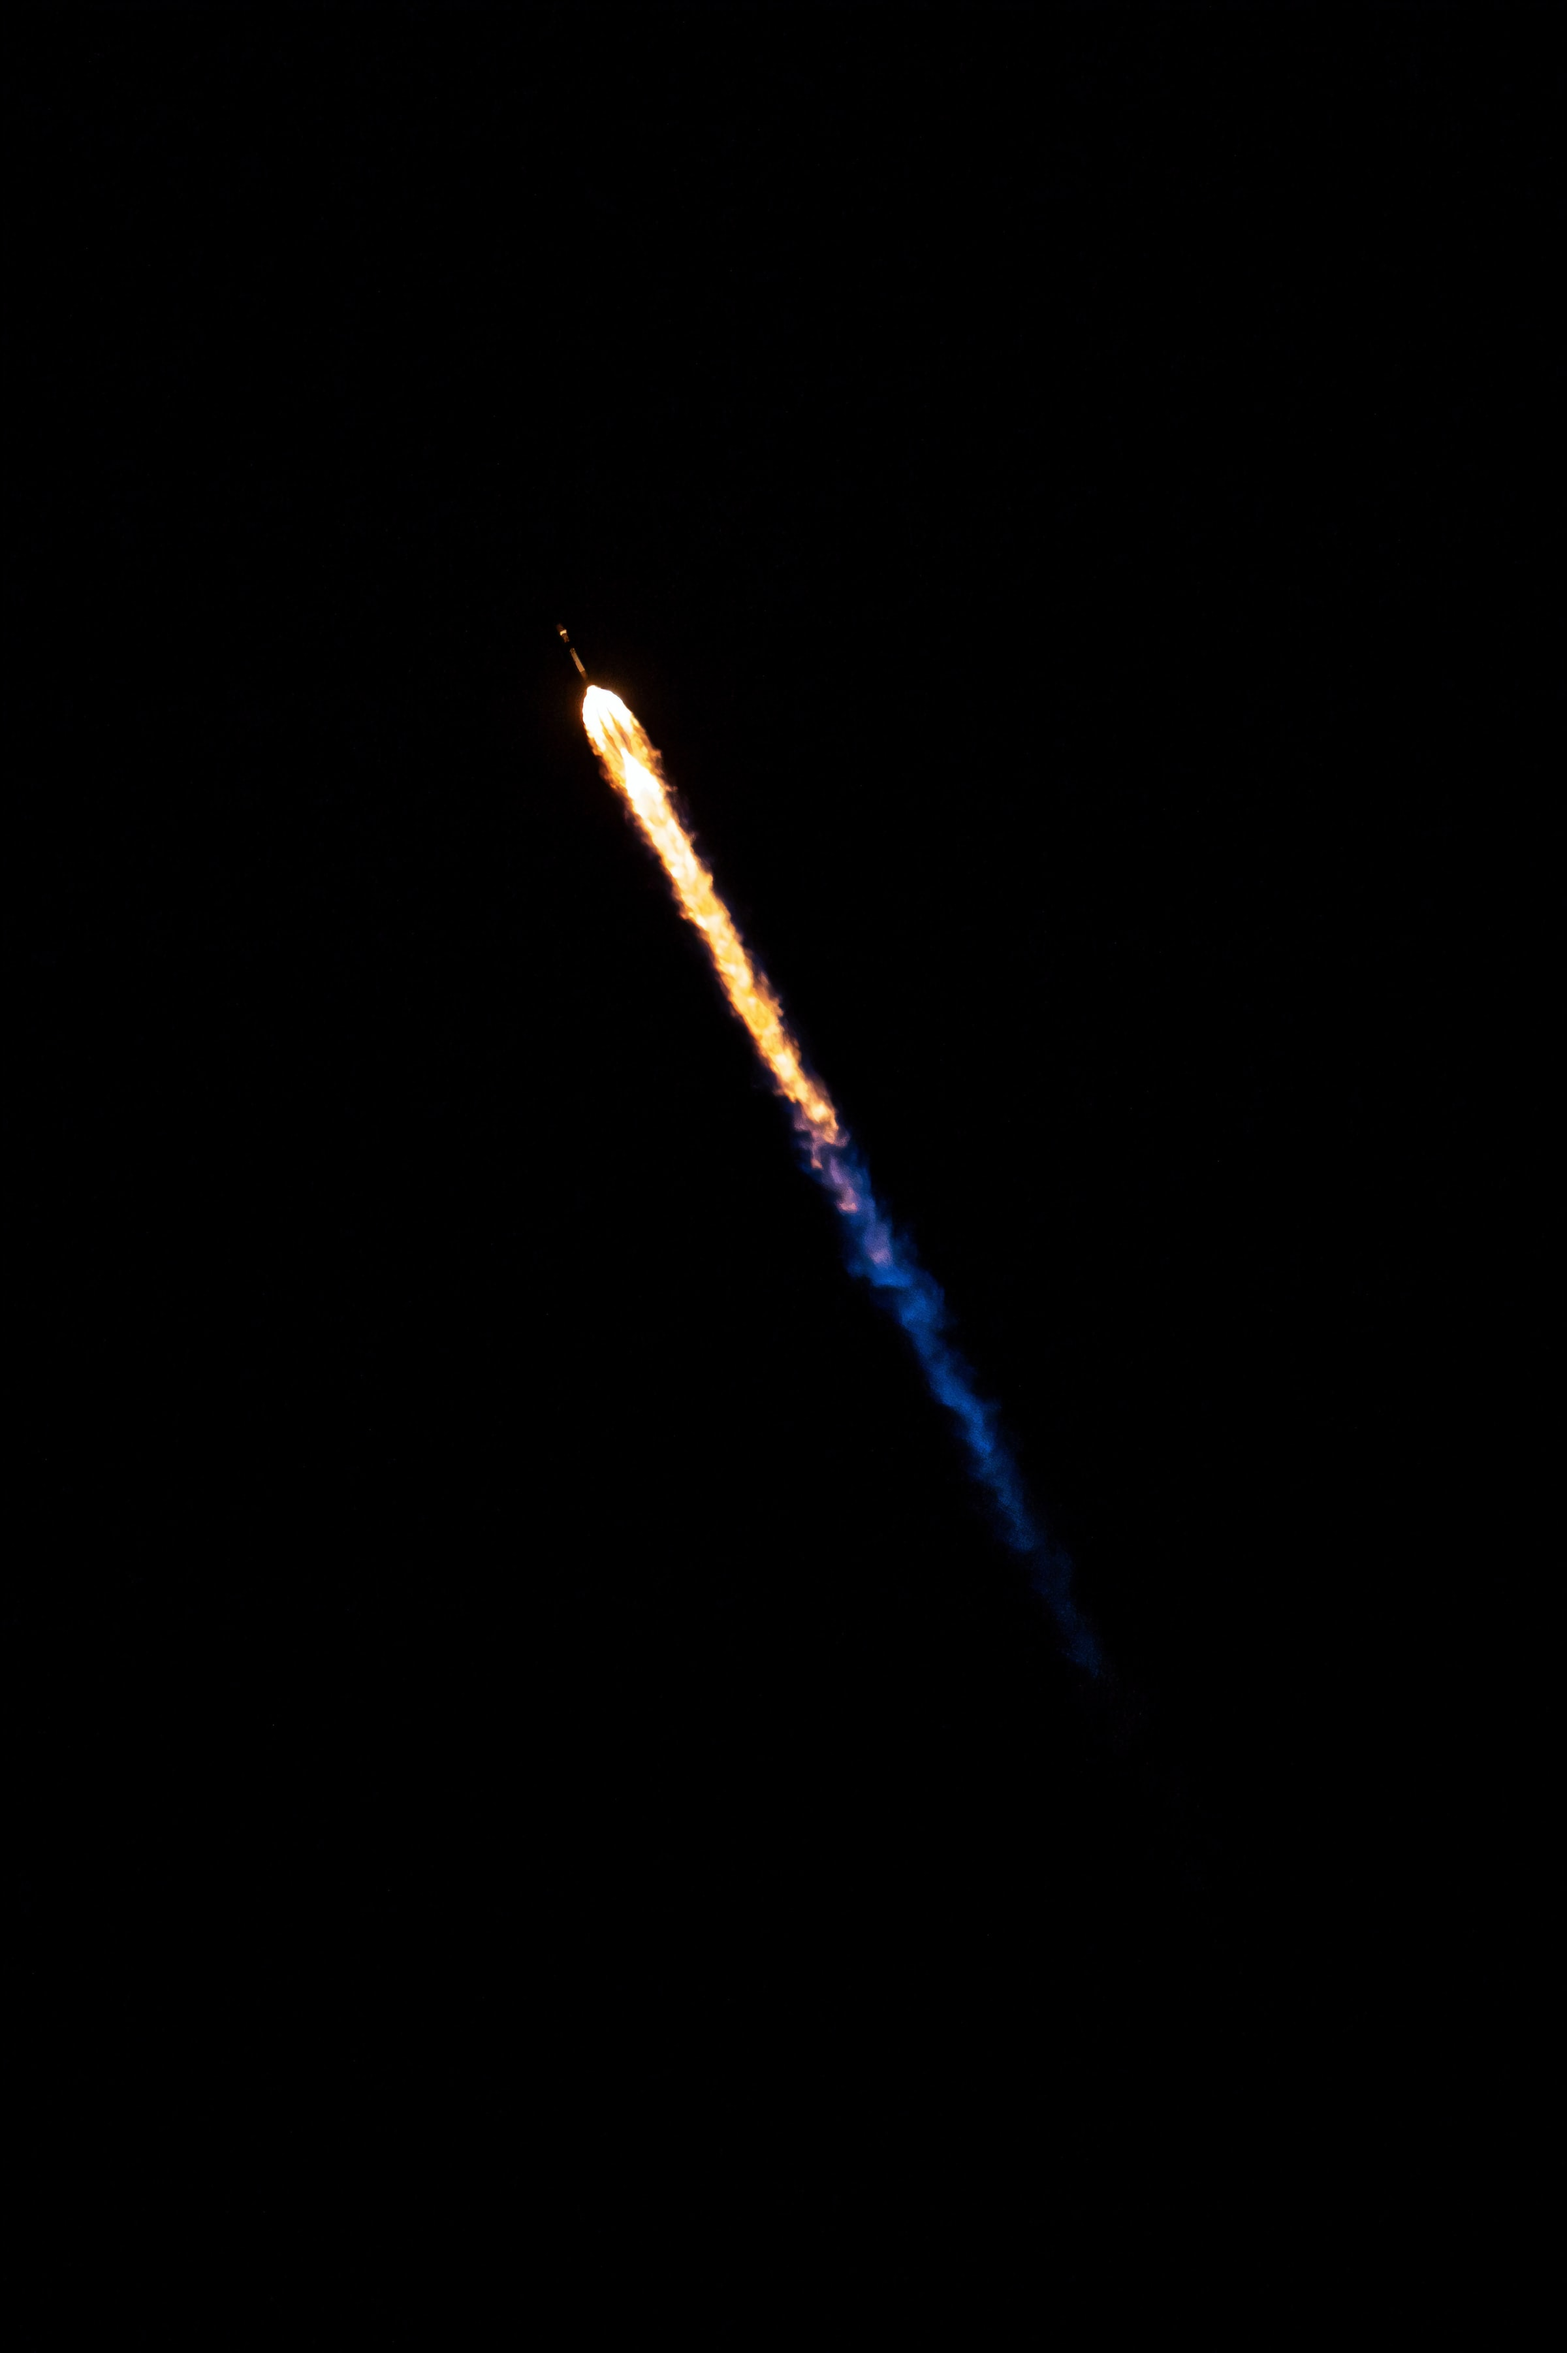
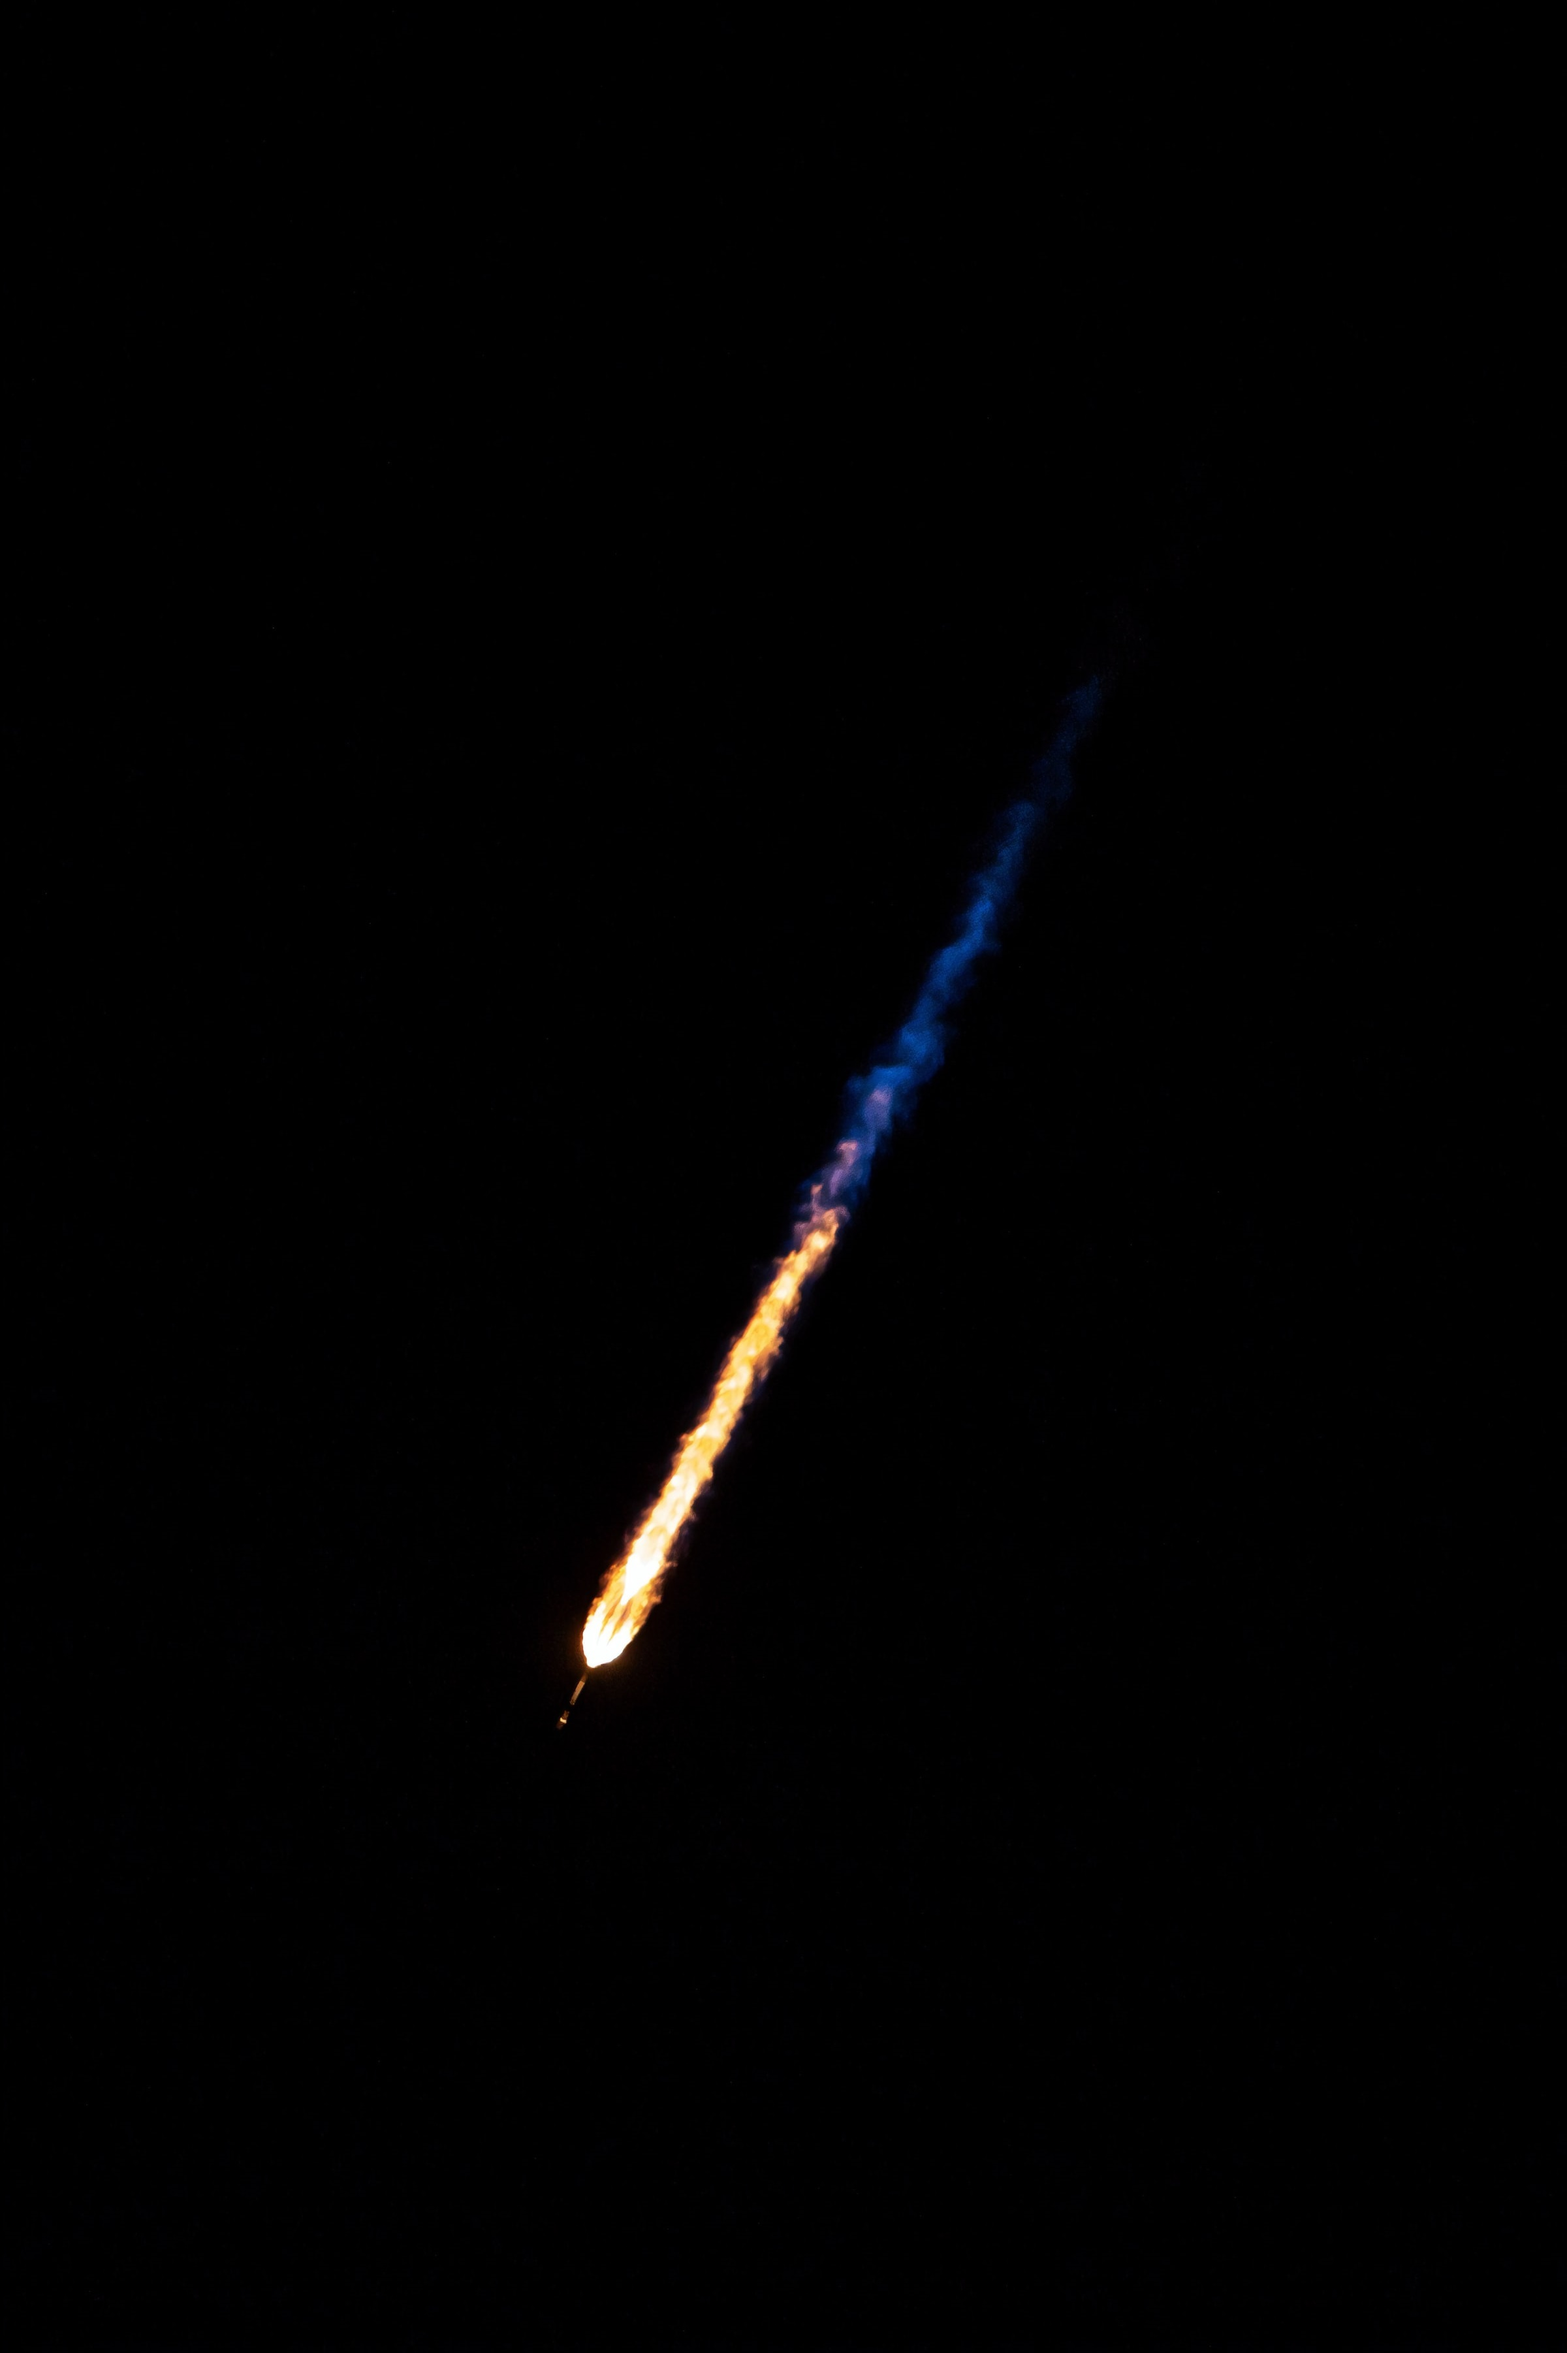
Changed rocket image

diff --git a/components/Footer.tsx b/components/Footer.tsx
@@ -5,7 +5,8 @@ import ArrowVector from '../public/images/small-arrow.svg'
 import {FaTwitter, FaInstagram, FaLinkedinIn} from 'react-icons/fa'
 import {animateScroll as scroll} from 'react-scroll';
 import styled from 'styled-components'
-
+import EarlyAccess from './EarlyAccess'
+import { useState } from 'react'
 
 const FooterContainer = styled.div`
 
@@ -31,78 +32,86 @@ const Footer = () => {
    const toggleHome = () => {
       scroll.scrollToTop()
    }
+
+   const [showmenu, setShowmenu] = useState(false);
+   const [showearlyaccess, setShowEarlyAccess] = useState<boolean>(false)
    return (
-      <FooterContainer className="text-white py-5 px-2 mt-[100px] lg:px-5 lg:mt-[150px] xl:mt-[200px] relative w-full h-full z-[2]">
-         <TopSeperator/>
-         <div className="flex items-center justify-between pl-2 md:pl-5 lg:px-5">
-            <div className="flex items-center">
-               <div className="cursor-pointer mr-5" onClick={toggleHome}>
-                  <Image src={Logo} alt="logo" />
+      <>
+            {
+               showearlyaccess &&    <EarlyAccess closeearlyaccess={setShowEarlyAccess}></EarlyAccess>
+            }
+         <FooterContainer className="text-white py-5 px-2 mt-[100px] lg:px-5 lg:mt-[150px] xl:mt-[200px] relative w-full h-full z-[2]">
+            <TopSeperator/>
+            <div className="flex items-center justify-between pl-2 md:pl-5 lg:px-5">
+               <div className="flex items-center">
+                  <div className="cursor-pointer mr-5" onClick={toggleHome}>
+                     <Image src={Logo} alt="logo" />
+                  </div>
+                  <p className="font-normal text-xs xl:text-sm text-[#C4C4C4] hidden lg:block"> &copy;2022 Web3D Media Inc. All rights reserved</p>
                </div>
-               <p className="font-normal text-xs xl:text-sm text-[#C4C4C4] hidden lg:block"> &copy;2022 Web3D Media Inc. All rights reserved</p>
-            </div>
-            <div className='items-center hidden lg:flex'>
-               <Link href="/">
-                  <a target="_blank">
-                     <span className="mx-4 cursor-pointer lg:text-sm xl:text-base text-[#C4C4C4] font-normal">Legal</span>
-                  </a>
-               </Link>
-               <Separator/>
-               <ul className="list-disc hidden sm:flex">
-                  <Link href="https://www.instagram.com/web3d.media/">
+               <div className='items-center hidden lg:flex'>
+                  <Link href="/">
                      <a target="_blank">
-                        <span className="mx-4 cursor-pointer lg:text-sm xl:text-base text-[#C4C4C4] font-normal">Instagram</span>
+                        <span className="mx-4 cursor-pointer lg:text-sm xl:text-base text-[#C4C4C4] font-normal">Legal</span>
                      </a>
                   </Link>
+                  <Separator/>
+                  <ul className="list-disc hidden sm:flex">
+                     <Link href="https://www.instagram.com/web3d.media/">
+                        <a target="_blank">
+                           <span className="mx-4 cursor-pointer lg:text-sm xl:text-base text-[#C4C4C4] font-normal">Instagram</span>
+                        </a>
+                     </Link>
+                     <Link href="https://twitter.com/web3Dmedia">
+                        <a target="_blank">
+                           <li  className="mx-4 cursor-pointer font-normal lg:text-sm xl:text-base text-[#C4C4C4]">Twitter</li>
+                        </a>
+                     </Link>
+                     <Link href="https://www.linkedin.com/company/web3dmedia">
+                        <a target="_blank">
+                           <li  className="ml-4 cursor-pointer font-normal lg:text-sm xl:text-base text-[#C4C4C4]">Linkedin</li>
+                        </a>
+                     </Link>
+                  </ul>
+               </div>
+            </div>
+
+            <div className="flex flex-col my-5 lg:hidden px-2 md:px-5">
+               <Link href="/">
+                  <a className="flex items-center justify-between text-lg my-3 font-normal">Legal. <span><Image src={ArrowVector} alt="img"/></span></a>
+               </Link>
+               <span onClick={() => setShowEarlyAccess(true)}>
+                  <a className="flex items-center justify-between text-lg my-3 font-normal">Early access. <span><Image src={ArrowVector} alt="img"/></span></a>
+               </span>
+            </div>
+            <div className="flex items-center justify-center w-full lg:hidden my-6">
+               <div className="mr-2 h-9 w-9 bg-zinc-600 rounded-full flex items-center justify-center">
                   <Link href="https://twitter.com/web3Dmedia">
                      <a target="_blank">
-                        <li  className="mx-4 cursor-pointer font-normal lg:text-sm xl:text-base text-[#C4C4C4]">Twitter</li>
+                        <FaTwitter/>
                      </a>
                   </Link>
+               </div>
+               <div className="mx-2 h-9 w-9 bg-zinc-600 rounded-full flex items-center justify-center">
+                  <Link href="https://www.instagram.com/web3d.media/">
+                     <a target="_blank">
+                        <FaInstagram/>
+                     </a>
+                  </Link>
+               </div>
+               <div className="ml-2 h-9 w-9 bg-zinc-600 rounded-full flex items-center justify-center">
                   <Link href="https://www.linkedin.com/company/web3dmedia">
                      <a target="_blank">
-                        <li  className="ml-4 cursor-pointer font-normal lg:text-sm xl:text-base text-[#C4C4C4]">Linkedin</li>
+                        <FaLinkedinIn/>
                      </a>
                   </Link>
-               </ul>
+               </div>
             </div>
-         </div>
-
-         <div className="flex flex-col my-5 lg:hidden px-2 md:px-5">
-            <Link href="/">
-               <a className="flex items-center justify-between text-lg my-3 font-normal">Legal. <span><Image src={ArrowVector} alt="img"/></span></a>
-            </Link>
-            <Link href="/">
-               <a className="flex items-center justify-between text-lg my-3 font-normal">Early access. <span><Image src={ArrowVector} alt="img"/></span></a>
-            </Link>
-         </div>
-         <div className="flex items-center justify-center w-full lg:hidden my-6">
-            <div className="mr-2 h-9 w-9 bg-zinc-600 rounded-full flex items-center justify-center">
-               <Link href="https://twitter.com/web3Dmedia">
-                  <a target="_blank">
-                     <FaTwitter/>
-                  </a>
-               </Link>
+            <div className="my-5 w-full flex items-center justify-center lg:hidden sm:my-6">
+               <p className="font-normal text-sm text-[#C4C4C4]"> &copy;2022 Web3D Media Inc. All rights reserved</p>
             </div>
-            <div className="mx-2 h-9 w-9 bg-zinc-600 rounded-full flex items-center justify-center">
-               <Link href="https://www.instagram.com/web3d.media/">
-                  <a target="_blank">
-                     <FaInstagram/>
-                  </a>
-               </Link>
-            </div>
-            <div className="ml-2 h-9 w-9 bg-zinc-600 rounded-full flex items-center justify-center">
-               <Link href="https://www.linkedin.com/company/web3dmedia">
-                  <a target="_blank">
-                     <FaLinkedinIn/>
-                  </a>
-               </Link>
-            </div>
-         </div>
-         <div className="my-5 w-full flex items-center justify-center lg:hidden sm:my-6">
-            <p className="font-normal text-sm text-[#C4C4C4]"> &copy;2022 Web3D Media Inc. All rights reserved</p>
-         </div>
-      </FooterContainer>
+         </FooterContainer>
+      </>
    )
 }
 

diff --git a/components/EarlyAccess.tsx b/components/EarlyAccess.tsx
@@ -10,15 +10,17 @@ const EarlyAccessContainer = styled.div`
         z-index: 7;
         width:100%;
         top:0;
+        left:0;
 `
 const EarlyAccessInnerContainer = styled.div`
     background: url(/images/background.png), black;
     background-size: 500px;
     border-radius:16px;
     display:flex;
+    align-items: center;
+    justify-content: center;
     flex-direction:column;
     width:556px;
-    margin:auto;
     padding: 72px 42px;
     position:absolute;
     top:50%;
@@ -27,12 +29,15 @@ const EarlyAccessInnerContainer = styled.div`
     @media (max-width: 550px) {
         width:350px;
         padding: 52px 20px;
+
     }
 `
 const MobileMenuClose = styled.div`
     display: flex;
+    position: absolute;
+    right: 10px;
     float: right;
-    margin: -10px;
+    top: 40px;
     width: 21px;
     height: 2px;
     cursor: pointer;
@@ -52,7 +57,7 @@ const FirstText = styled.h6`
     font-weight: 800;
     font-size: 36px;
     line-height: 38px;
-    padding-bottom:20px
+    padding-bottom:20px;
 `
 const SecondText = styled.h2`
     font-weight: 400;
@@ -75,7 +80,7 @@ const FirstLabel = styled.p`
 const Span = styled.span`
     font-weight: 400;
     font-size: 14px;
-    line-height: 15px:
+    line-height: 15px;
     z-index:2;
 `
 const Input = styled.input<{erros:boolean}>`

diff --git a/components/HeroSection.tsx b/components/HeroSection.tsx
@@ -321,7 +321,7 @@ const HeroSection = () => {
           </ThirdHeadingText>
 
             <Button>
-              <ScrollLink to="teams" spy={true} smooth={true} offset={-20} duration={900}>
+              <ScrollLink to="products" spy={true} smooth={true} offset={-20} duration={900}>
                 <div className="cursor-pointer flex justify-center m-auto hover:scale-105 transition-transform w-122 h-14 lg:w-139 lg:h-19 2xl:w-228 xl:h-47 duration-700 ">
                     <Image src='/images/our-superpowers-btn.svg' width={228} height={47} alt="logo" />
                 </div>

diff --git a/components/ProjectSection.tsx b/components/ProjectSection.tsx
@@ -202,7 +202,7 @@ const ProjectSection = () => {
             >
                <ImageContainer className="z-[4] bg-black">
                   <Image
-                     src='/images/rocket.jpg'
+                     src='/images/rocketImage.png'
                      alt="card image"
                      layout='fill'
                      loading='lazy'
